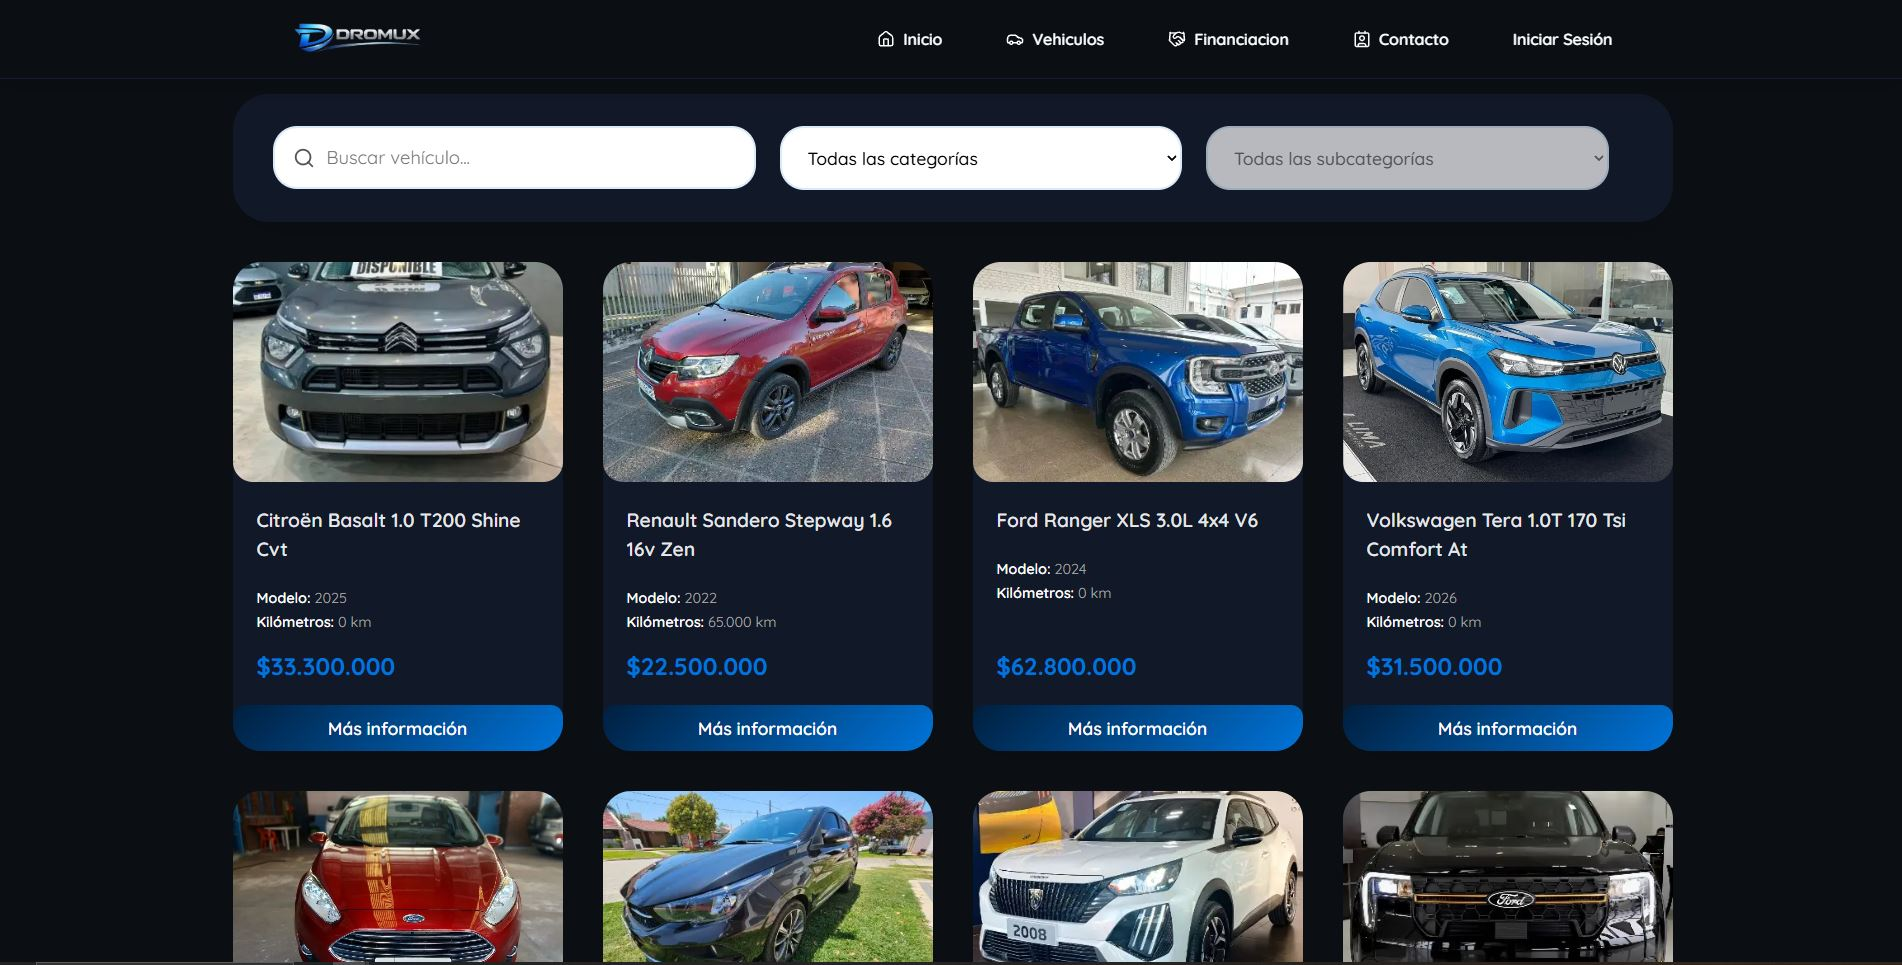
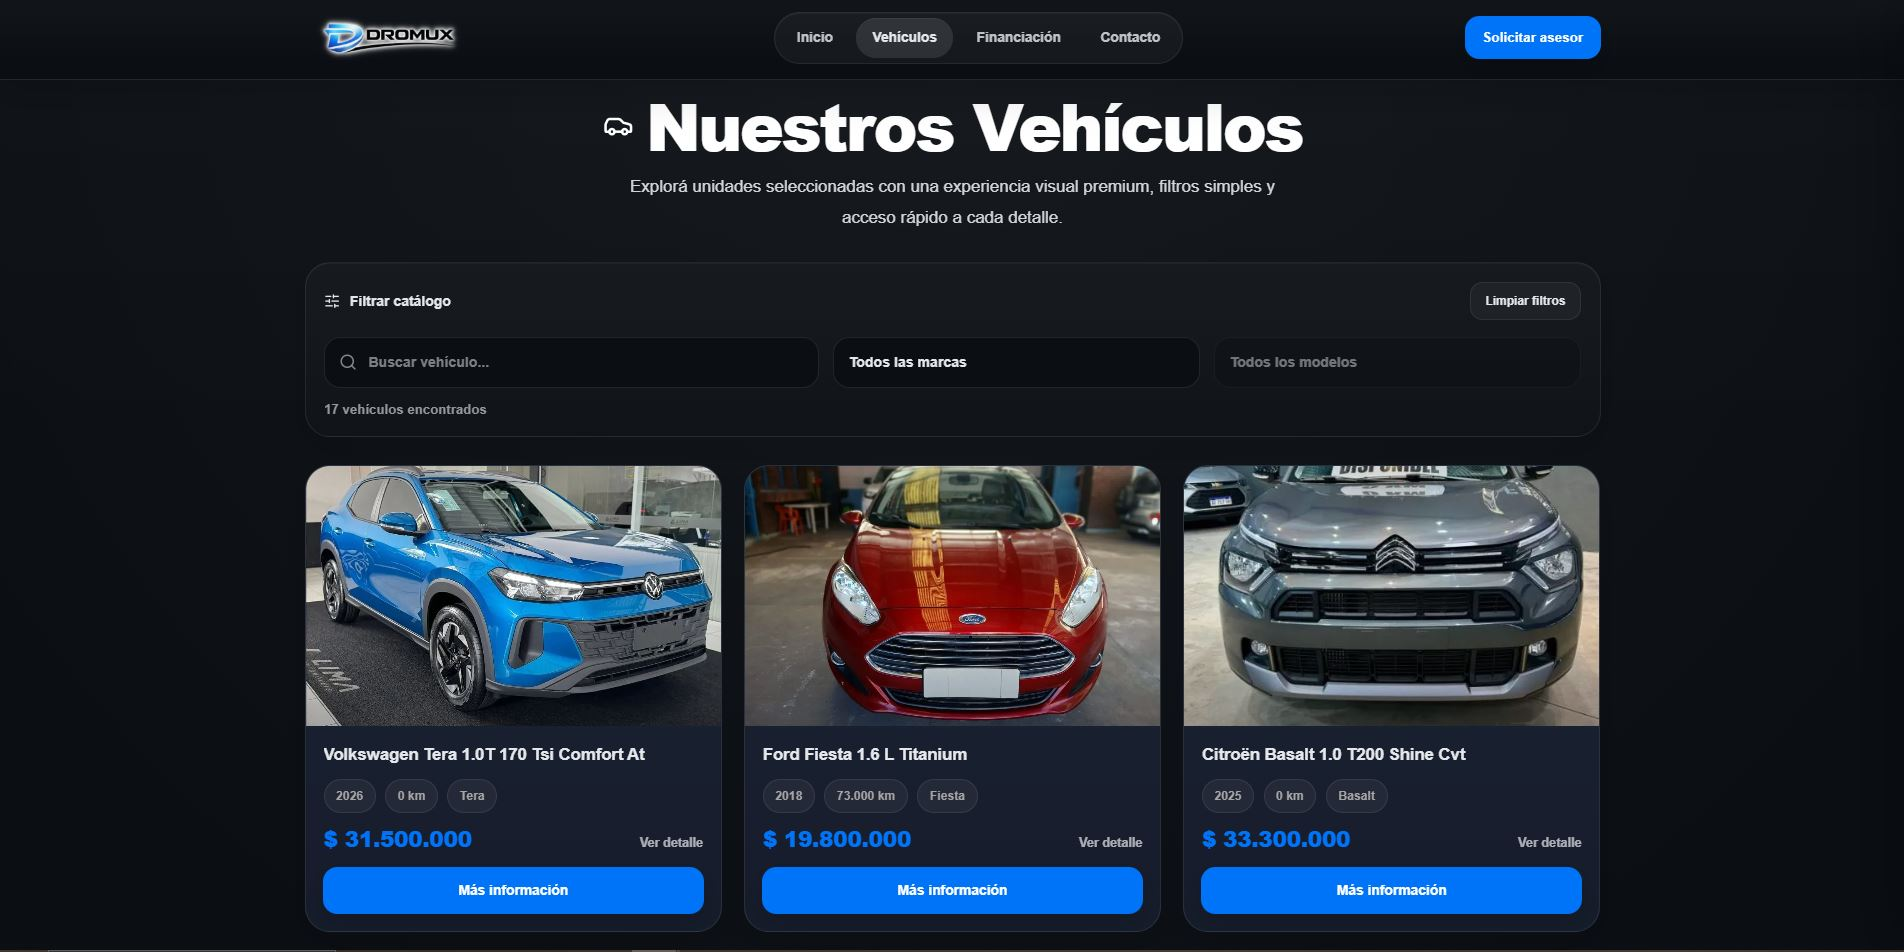
Dromuxweb 1.5

diff --git a/software-para-concesionarios/index.html b/software-para-concesionarios/index.html
@@ -232,7 +232,7 @@
               <a href="/funcionalidades/">Explorar funcionalidades <i data-lucide="arrow-right"></i></a>
             </div>
             <div class="sv2-card-image">
-              <img src="/assets/img/gestionvehiculos.JPG" alt="Gestión de vehículos y stock en Dromux" width="1087" height="810" loading="lazy" />
+              <img src="/assets/img/consignaciones.JPG" alt="Gestión de vehículos y stock en Dromux" width="1087" height="810" loading="lazy" />
             </div>
           </article>
 
@@ -290,7 +290,7 @@
         <div class="sv2-proof-image">
           <div class="sv2-browser sv2-browser-flat">
             <div class="sv2-browser-top"><div class="sv2-dots"><span></span><span></span><span></span></div><div class="sv2-url"><i data-lucide="lock-keyhole"></i> Dromux</div><span></span></div>
-            <img src="/assets/img/dashboard.JPG" alt="Panel real de Dromux para gestión de concesionarios" width="1087" height="810" loading="lazy" />
+            <img src="/assets/img/detalleventa.JPG" alt="Panel real de Dromux para gestión de concesionarios" width="1087" height="810" loading="lazy" />
           </div>
         </div>
         <div class="sv2-proof-copy">

diff --git a/web-para-concesionarios/index.html b/web-para-concesionarios/index.html
@@ -232,7 +232,7 @@
         <div class="webp-showcase-stack reveal">
           <div class="webp-browser webp-browser-secondary">
             <div class="webp-browser-bar"><span></span><span></span><span></span><div>concesionaria.com/vehiculos</div></div>
-            <img src="../assets/img/modeloblanco.JPG" alt="Ejemplo de diseño claro de una página para agencia de autos desarrollada con Dromux" loading="lazy" />
+            <img src="../assets/img/detallevehiculo.JPG" alt="Ejemplo de diseño claro de una página para agencia de autos desarrollada con Dromux" loading="lazy" />
           </div>
           <div class="webp-design-switch"><i data-lucide="palette"></i><div><strong>Tu identidad</strong><span>Diseños claros u oscuros según la marca</span></div></div>
         </div>

diff --git a/funcionalidades/index.html b/funcionalidades/index.html
@@ -144,7 +144,7 @@
 
           <div class="fx-product-window">
             <div class="fx-screen">
-              <img src="/assets/img/dashboard.JPG" alt="Dashboard real del software para concesionarios Dromux" width="1400" height="900">
+              <img src="/assets/img/paneldromux.JPG" alt="Dashboard real del software para concesionarios Dromux" width="1400" height="900">
             </div>
             <div class="fx-float one"><i data-lucide="landmark"></i><div><strong>Tesorería</strong><small>Cajas, bancos y cheques</small></div></div>
             <div class="fx-float two"><i data-lucide="car-front"></i><div><strong>Vehículos</strong><small>Costos, gastos y rentabilidad</small></div></div>

diff --git a/assets/css/home.css b/assets/css/home.css
@@ -371,3 +371,17 @@
     padding-inline: 0;
   }
 }
+
+/* =========================================================
+   AJUSTE V2.2 · MODELO WEB ÚNICO CENTRADO
+   ========================================================= */
+.hv2-web-grid {
+  grid-template-columns: minmax(0, 760px);
+  justify-content: center;
+}
+
+@media (max-width: 980px) {
+  .hv2-web-grid {
+    grid-template-columns: minmax(0, 1fr);
+  }
+}
